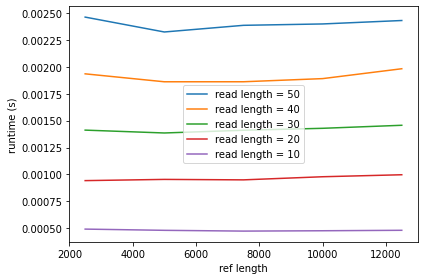
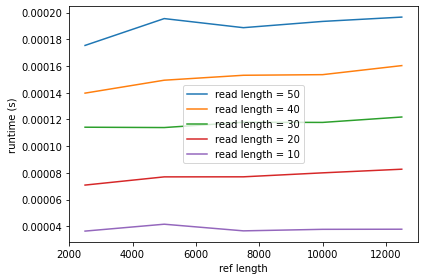
done

diff --git a/src/Runtimes.py b/src/Runtimes.py
@@ -3,16 +3,15 @@
 import re
 import time
 import random
-# import numpy as np
-# import matplotlib.pyplot as plt
-# import seaborn as sns
+import numpy as np
+import matplotlib.pyplot as plt
+import seaborn as sns
 
 ################################################################
 # functions:
     
 from SEQsimulator import simulate_string
 from SEQsimulator import get_exact_read
-from fm import SuffixArray
 from fm import FM_structures
 from fm import find_pattern_interval
 from fm import get_SA_offsets
@@ -33,7 +32,7 @@ def FM_read_mapper(string, pattern):
 ################################################################
 # # tests:
   
-# # # 1 mio test:
+# 1 mio test:
 # string = simulate_string(1000000)
 # start_time = time.time()
 # FM_structures(string)
@@ -41,7 +40,7 @@ def FM_read_mapper(string, pattern):
 # print(end_time-start_time)
 
 
-# # Test suffixtree-algorithm vs naive-algorithm for same result:
+# Test suffixtree-algorithm vs naive-algorithm for same result:
 # for i in range(50000):
 #     print('Iteration nr: ', i+1)
 #     ref = simulate_string(random.randint(40,100))
@@ -56,7 +55,7 @@ def FM_read_mapper(string, pattern):
 #         print('DONE')
 
 
-# # Runtimes for the array construction (varying ref lengths):
+# Runtimes for the array construction (varying ref lengths):
 # ref_lengths = [25000,50000,75000,100000,125000,150000,175000]
 # runtimes = []
 # for idx in range(7):
@@ -78,88 +77,88 @@ def FM_read_mapper(string, pattern):
 # plt.show()
 
 
-# # Runtimes for mapping (varying read lengths):
-# ref_lengths = [2500,5000,7500,10000,12500]
-# read_lengths_10 = [100]*5
-# read_lengths_20 = [200]*5
-# read_lengths_30 = [300]*5
-# read_lengths_40 = [400]*5
-# read_lengths_50 = [500]*5
-# runtimes_10 = []
-# runtimes_20 = []
-# runtimes_30 = []
-# runtimes_40 = []
-# runtimes_50 = []
-# for idx in range(5):
-#     print('Iteration nr: ', idx+1)
-#     runtimes_10_replicate = []
-#     runtimes_20_replicate = []
-#     runtimes_30_replicate = []
-#     runtimes_40_replicate = []
-#     runtimes_50_replicate = []
+# Runtimes for mapping (varying read lengths):
+ref_lengths = [2500,5000,7500,10000,12500]
+read_lengths_10 = [10]*5
+read_lengths_20 = [20]*5
+read_lengths_30 = [30]*5
+read_lengths_40 = [40]*5
+read_lengths_50 = [50]*5
+runtimes_10 = []
+runtimes_20 = []
+runtimes_30 = []
+runtimes_40 = []
+runtimes_50 = []
+for idx in range(5):
+    print('Iteration nr: ', idx+1)
+    runtimes_10_replicate = []
+    runtimes_20_replicate = []
+    runtimes_30_replicate = []
+    runtimes_40_replicate = []
+    runtimes_50_replicate = []
     
-#     for i in range(10):
-#         ref = simulate_string(ref_lengths[idx])
-#         alphabet, quant, index, red_SA, F, L, red_L_tally = FM_structures(ref)
+    for i in range(100):
+        ref = simulate_string(ref_lengths[idx])
+        alphabet, quant, index, red_SA, F, L, red_L_tally = FM_structures(ref)
         
-#         read_10 = get_exact_read(ref, read_lengths_10[idx])
-#         read_20 = get_exact_read(ref, read_lengths_20[idx])
-#         read_30 = get_exact_read(ref, read_lengths_30[idx])
-#         read_40 = get_exact_read(ref, read_lengths_40[idx])
-#         read_50 = get_exact_read(ref, read_lengths_50[idx])
+        read_10 = get_exact_read(ref, read_lengths_10[idx])
+        read_20 = get_exact_read(ref, read_lengths_20[idx])
+        read_30 = get_exact_read(ref, read_lengths_30[idx])
+        read_40 = get_exact_read(ref, read_lengths_40[idx])
+        read_50 = get_exact_read(ref, read_lengths_50[idx])
         
-#         # Dont know why it is nessesary to read run this chunk of code, but 
-#         # if i dont the first the first runtime is affected. Mayde something 
-#         # to do with loading the modules??
-#         SA_interval = find_pattern_interval(read_10, alphabet, index, red_L_tally, quant, L)
-#         offsets = get_SA_offsets(SA_interval, red_SA, L, red_L_tally, index, alphabet, quant)
+        # Dont know why it is nessesary to read run this chunk of code, but 
+        # if i dont the first the first runtime is affected. Mayde something 
+        # to do with loading the modules??
+        SA_interval = find_pattern_interval(read_10, alphabet, index, red_L_tally, quant, L)
+        offsets = get_SA_offsets(SA_interval, red_SA, L, red_L_tally, index, alphabet, quant)
         
-#         start_time = time.time()
-#         SA_interval = find_pattern_interval(read_10, alphabet, index, red_L_tally, quant, L)
-#         offsets = get_SA_offsets(SA_interval, red_SA, L, red_L_tally, index, alphabet, quant)
-#         end_time = time.time()
-#         runtimes_10_replicate.append(end_time-start_time)
+        start_time = time.time()
+        SA_interval = find_pattern_interval(read_10, alphabet, index, red_L_tally, quant, L)
+        offsets = get_SA_offsets(SA_interval, red_SA, L, red_L_tally, index, alphabet, quant)
+        end_time = time.time()
+        runtimes_10_replicate.append(end_time-start_time)
         
-#         start_time = time.time()
-#         SA_interval = find_pattern_interval(read_20, alphabet, index, red_L_tally, quant, L)
-#         offsets = get_SA_offsets(SA_interval, red_SA, L, red_L_tally, index, alphabet, quant)
-#         end_time = time.time()
-#         runtimes_20_replicate.append(end_time-start_time)
+        start_time = time.time()
+        SA_interval = find_pattern_interval(read_20, alphabet, index, red_L_tally, quant, L)
+        offsets = get_SA_offsets(SA_interval, red_SA, L, red_L_tally, index, alphabet, quant)
+        end_time = time.time()
+        runtimes_20_replicate.append(end_time-start_time)
         
-#         start_time = time.time()
-#         SA_interval = find_pattern_interval(read_30, alphabet, index, red_L_tally, quant, L)
-#         offsets = get_SA_offsets(SA_interval, red_SA, L, red_L_tally, index, alphabet, quant)
-#         end_time = time.time()
-#         runtimes_30_replicate.append(end_time-start_time)
+        start_time = time.time()
+        SA_interval = find_pattern_interval(read_30, alphabet, index, red_L_tally, quant, L)
+        offsets = get_SA_offsets(SA_interval, red_SA, L, red_L_tally, index, alphabet, quant)
+        end_time = time.time()
+        runtimes_30_replicate.append(end_time-start_time)
         
-#         start_time = time.time()
-#         SA_interval = find_pattern_interval(read_40, alphabet, index, red_L_tally, quant, L)
-#         offsets = get_SA_offsets(SA_interval, red_SA, L, red_L_tally, index, alphabet, quant)
-#         end_time = time.time()
-#         runtimes_40_replicate.append(end_time-start_time)
+        start_time = time.time()
+        SA_interval = find_pattern_interval(read_40, alphabet, index, red_L_tally, quant, L)
+        offsets = get_SA_offsets(SA_interval, red_SA, L, red_L_tally, index, alphabet, quant)
+        end_time = time.time()
+        runtimes_40_replicate.append(end_time-start_time)
         
-#         start_time = time.time()
-#         SA_interval = find_pattern_interval(read_50, alphabet, index, red_L_tally, quant, L)
-#         offsets = get_SA_offsets(SA_interval, red_SA, L, red_L_tally, index, alphabet, quant)
-#         end_time = time.time()
-#         runtimes_50_replicate.append(end_time-start_time)
+        start_time = time.time()
+        SA_interval = find_pattern_interval(read_50, alphabet, index, red_L_tally, quant, L)
+        offsets = get_SA_offsets(SA_interval, red_SA, L, red_L_tally, index, alphabet, quant)
+        end_time = time.time()
+        runtimes_50_replicate.append(end_time-start_time)
         
-#     runtimes_10.append(np.mean(runtimes_10_replicate))
-#     runtimes_20.append(np.mean(runtimes_20_replicate))
-#     runtimes_30.append(np.mean(runtimes_30_replicate))
-#     runtimes_40.append(np.mean(runtimes_40_replicate))
-#     runtimes_50.append(np.mean(runtimes_50_replicate))
+    runtimes_10.append(np.mean(runtimes_10_replicate))
+    runtimes_20.append(np.mean(runtimes_20_replicate))
+    runtimes_30.append(np.mean(runtimes_30_replicate))
+    runtimes_40.append(np.mean(runtimes_40_replicate))
+    runtimes_50.append(np.mean(runtimes_50_replicate))
 
-# # plot running times:
-# fig, ax = plt.subplots()
-# sns.lineplot(x=ref_lengths, y=runtimes_50, ax=ax, label='read length = 50')
-# sns.lineplot(x=ref_lengths, y=runtimes_40, ax=ax, label='read length = 40')
-# sns.lineplot(x=ref_lengths, y=runtimes_30, ax=ax, label='read length = 30')
-# sns.lineplot(x=ref_lengths, y=runtimes_20, ax=ax, label='read length = 20')
-# sns.lineplot(x=ref_lengths, y=runtimes_10, ax=ax, label='read length = 10')
-# plt.xlabel('ref length')
-# plt.ylabel('runtime (s)')
-# plt.tight_layout()
-# plt.show()
+# plot running times:
+fig, ax = plt.subplots()
+sns.lineplot(x=ref_lengths, y=runtimes_50, ax=ax, label='read length = 50')
+sns.lineplot(x=ref_lengths, y=runtimes_40, ax=ax, label='read length = 40')
+sns.lineplot(x=ref_lengths, y=runtimes_30, ax=ax, label='read length = 30')
+sns.lineplot(x=ref_lengths, y=runtimes_20, ax=ax, label='read length = 20')
+sns.lineplot(x=ref_lengths, y=runtimes_10, ax=ax, label='read length = 10')
+plt.xlabel('ref length')
+plt.ylabel('runtime (s)')
+plt.tight_layout()
+plt.show()
 
-# # ################################################################
+################################################################

diff --git a/src/fm.py b/src/fm.py
@@ -1,11 +1,10 @@
 ####################################################
 # Usage: 
 # string = 'mississippi'
-# pattern = ''
+# pattern = 'i'
 # alphabet, quant, index, red_SA, F, L, red_L_tally = FM_structures(string)
 # SA_interval = find_pattern_interval(pattern, alphabet, index, red_L_tally, quant, L)
-# offsets = get_SA_offsets(SA_interval, red_SA, L, red_L_tally, index, alphabet, quant)
-# print(offsets)
+# matches = get_SA_offsets(SA_interval, red_SA, L, red_L_tally, index, alphabet, quant)
 
 ####################################################
 # Libraries: 
@@ -22,7 +21,7 @@ from align import get_edits
     
 def SuffixArray(string):
     if string == '' or string == None:
-        return None
+        return []
     string += '$'
     index = {v: i for i, v in enumerate(sorted(set(string)))}
     string = [index[v] for v in string]
@@ -68,7 +67,7 @@ def FM_structures(string):
     for i in range(len(SA)):
         F[i] = string[SA[i]]
         L[i] = string[SA[i]-1]
-        if SA[i]%20 == 0:
+        if SA[i]%1 == 0:  # Set SA reduction constant! (e.g. 20)
             reduced_SA[i] = SA[i]
     
     # Make reduced table:
@@ -76,7 +75,7 @@ def FM_structures(string):
     tally = {}
     for i in range(len(L)):
         counts[L[i]]+=1
-        if i%30 == 0 or i==len(L)-1:
+        if i%1 == 0 or i==len(L)-1:  # Set Tally reduction constant! (e.g. 30)
             tally[i] = tuple(counts.values())
     
     red_SA = reduced_SA
@@ -98,6 +97,7 @@ def get_L_interval(letter, alphabet, quant):
 def get_L_rows(letter, interval, index, red_L_tally, L):
     above_val = 0 
     end_val = 0 
+    
     counts = 0
     for i in range(interval[0]-1, -1, -1):
         if i in red_L_tally:
@@ -105,15 +105,18 @@ def get_L_rows(letter, interval, index, red_L_tally, L):
             break
         if L[i] == letter:
             counts+=1
-    counts = 0
-    for i in range(interval[1], len(L)):
-        if L[i] == letter:
-            counts+=1
-        if i in red_L_tally:
-            end_val = red_L_tally[i][index[letter]] - counts
-            break
+            
     if interval[1] == len(L): 
         end_val = red_L_tally[len(L)-1][index[letter]]
+    else:
+        counts = 0
+        for i in range(interval[1], len(L)):
+            if L[i] == letter:
+                counts+=1
+            if i in red_L_tally:
+                end_val = red_L_tally[i][index[letter]] - counts
+                break
+            
     n = end_val - above_val
     rank_first = above_val
     return n, rank_first
@@ -148,7 +151,6 @@ def find_pattern_interval(pattern, alphabet, index, red_L_tally, quant, L):
 
 
 def get_SA_offsets(SA_interval, red_SA, L, red_L_tally, index, alphabet, quant):
-    
     if SA_interval == '' or SA_interval == None or SA_interval == []:
         return []
     
@@ -158,7 +160,7 @@ def get_SA_offsets(SA_interval, red_SA, L, red_L_tally, index, alphabet, quant):
         if i in red_SA: 
             offsets.append(red_SA[i])
             continue
-        else:
+        else:  # if using reduced SA.
             S=0
             k=i
             while S==0:
@@ -221,27 +223,19 @@ def read_fastq(inFile):
 
 
 def write_FM_structures(genome_name, name, alphabet, quant, index, red_SA, F, L, red_L_tally):
-    
     os.makedirs('../{}/{}/'.format(genome_name,name))
-    
     with open('../{}/{}/alphabet.txt'.format(genome_name,name), 'w') as f:
         print(alphabet, file=f)
-        
     with open('../{}/{}/quant.txt'.format(genome_name,name), 'w') as f:
         print(quant, file=f)
-    
     with open('../{}/{}/index.txt'.format(genome_name,name), 'w') as f:
         print(index, file=f)
-    
     with open('../{}/{}/red_SA.txt'.format(genome_name,name), 'w') as f:
         print(red_SA, file=f)
-        
     with open('../{}/{}/F.txt'.format(genome_name,name), 'w') as f:
         print(F, file=f)
-    
     with open('../{}/{}/L.txt'.format(genome_name,name), 'w') as f:
         print(L, file=f)
-        
     with open('../{}/{}/red_L_tally.txt'.format(genome_name,name), 'w') as f:
         print(red_L_tally, file=f)
         
@@ -249,25 +243,18 @@ def write_FM_structures(genome_name, name, alphabet, quant, index, red_SA, F, L,
 def open_FM_structures(path_to_dir: str):
     alphabet = open('alphabet.txt', 'r').read()
     alphabet = eval(alphabet)
-    
     quant = open('quant.txt', 'r').read()
     quant = eval(quant)
-    
     index = open('index.txt', 'r').read()
     index = eval(index)
-    
     red_SA = open('red_SA.txt', 'r').read()
     red_SA = eval(red_SA)
-    
     F = open('F.txt', 'r').read()
     F = eval(F)
-    
     L = open('L.txt', 'r').read()
     L = eval(L)
-    
     red_L_tally = open('red_L_tally.txt', 'r').read()
     red_L_tally = eval(red_L_tally)
-    
     return alphabet, quant, index, red_SA, F, L, red_L_tally
 
 ####################################################
